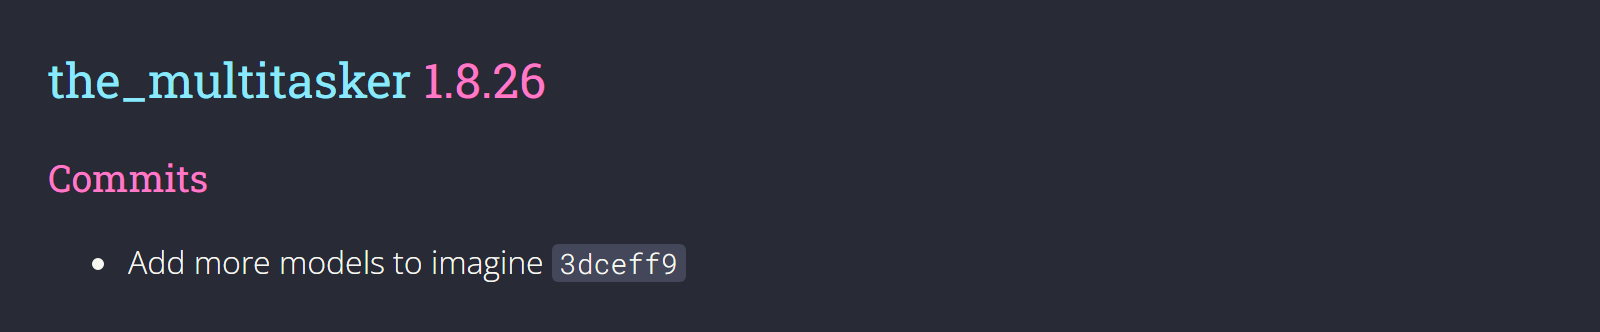
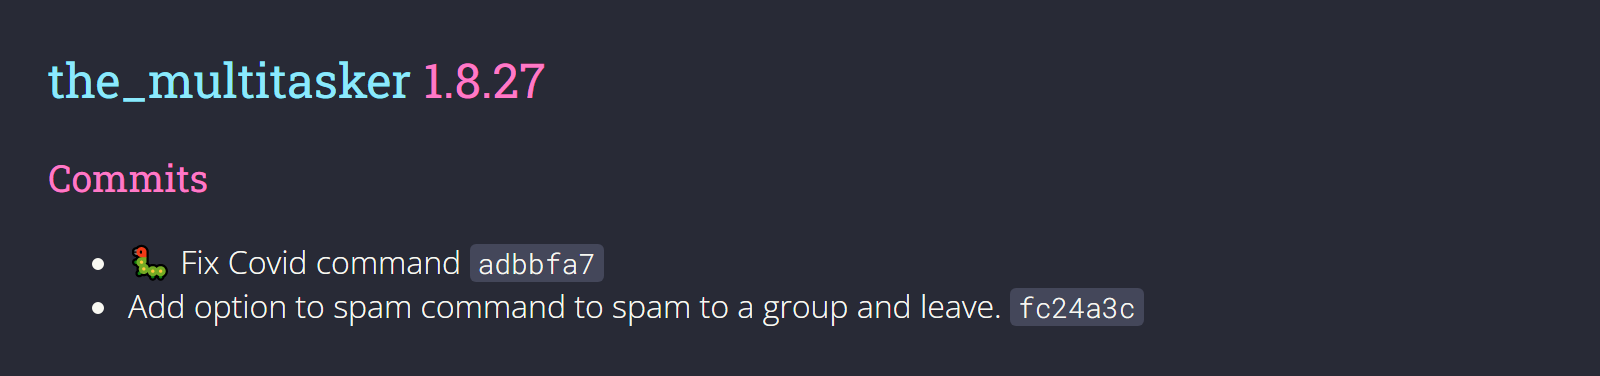
Release 1.8.27

Changed region(s): [[0.0312, 0.6325, 0.7188, 0.8735], [0.0312, 0.1506, 0.3438, 0.3012], [0.0312, 0.4217, 0.1562, 0.6024]]

diff --git a/CHANGELOG.md b/CHANGELOG.md
@@ -7,7 +7,18 @@ and this project adheres to [Semantic Versioning](https://semver.org/spec/v2.0.0
 
 Generated by [`auto-changelog`](https://github.com/CookPete/auto-changelog).
 
-## [1.8.26](https://github.com/eyalmichon/TheMultitasker/compare/1.8.25...1.8.26)
+## [1.8.27](https://github.com/eyalmichon/TheMultitasker/compare/1.8.26...1.8.27)
+
+
+
+
+### Commits
+
+- 🐛 Fix Covid command [`adbbfa7`](https://github.com/eyalmichon/TheMultitasker/commit/adbbfa78d2959ba5e4f2800fb84db42288a552c1)
+- Add option to spam command to spam to a group and leave. [`fc24a3c`](https://github.com/eyalmichon/TheMultitasker/commit/fc24a3cbaa4aadecbc7b1d4883e1a3618716ddde)
+
+
+## [1.8.26](https://github.com/eyalmichon/TheMultitasker/compare/1.8.25...1.8.26) - 2023-02-06
 
 
 
@@ -15,6 +26,7 @@ Generated by [`auto-changelog`](https://github.com/CookPete/auto-changelog).
 ### Commits
 
 - Add more models to imagine [`3dceff9`](https://github.com/eyalmichon/TheMultitasker/commit/3dceff972b20391b2142f4537c680f5a2ddad0bb)
+- Release 1.8.26 [`0677228`](https://github.com/eyalmichon/TheMultitasker/commit/0677228e790fe27ea0b4c2564960079f92079fd5)
 
 
 ## [1.8.25](https://github.com/eyalmichon/TheMultitasker/compare/1.8.24...1.8.25) - 2023-02-01
